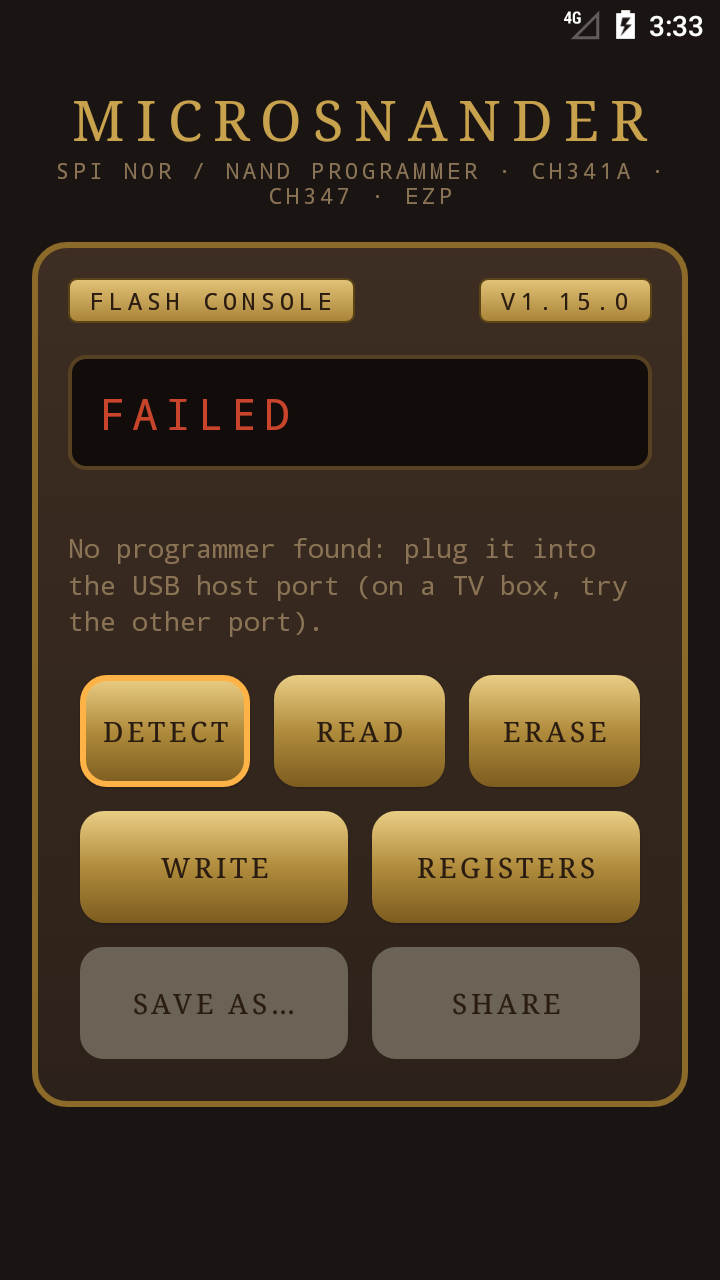
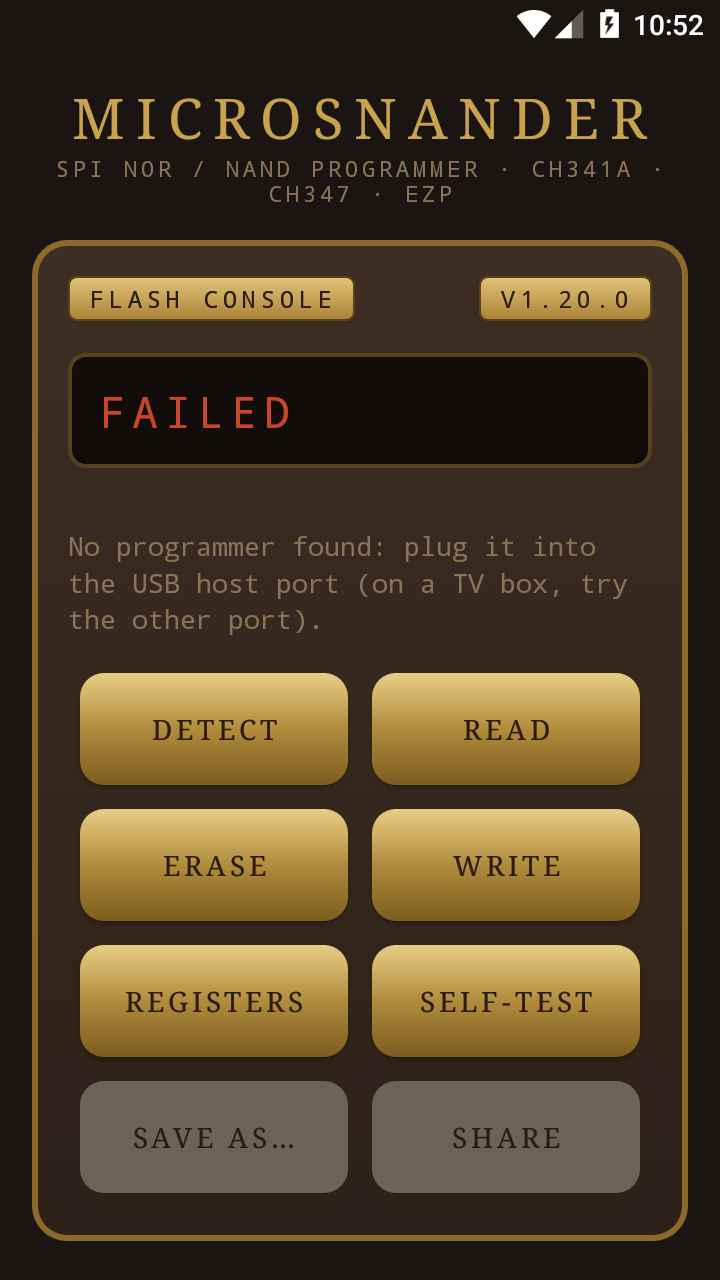
App buttons in rows of two; new screenshots
Three buttons a row broke REGISTERS and SELF-TEST on a phone: the rows
are Detect/Read, Erase/Write, Registers/Self-test, Save as/Share now.
Screenshots: the web mode reading a W25N01G through the CH347 and after
a self-test (new, in the READMEs), the app on a phone.

diff --git a/README.ru.md b/README.ru.md
@@ -234,6 +234,7 @@ microsnander -d -r raw.bin
 <p align="center">
   <img src="screenshots/web-reading.png" alt="MicroSNANDer Web во время чтения: лампы, прибор с прогрессом, дисплей, латунные кнопки" width="45%">
   <img src="screenshots/web-registers.png" alt="MicroSNANDer Web после чтения: ссылка на дамп и лампы битов регистров" width="45%">
+  <img src="screenshots/web-selftest.png" alt="MicroSNANDer Web после самотеста: SELF-TEST OK, защита и итог" width="45%">
 </p>
 
 ```sh

diff --git a/README.zh-CN.md b/README.zh-CN.md
@@ -210,6 +210,7 @@ microsnander -d -r raw.bin
 <p align="center">
   <img src="screenshots/web-reading.png" alt="MicroSNANDer Web 读取中：指示灯、进度表盘、显示屏、黄铜按钮" width="45%">
   <img src="screenshots/web-registers.png" alt="MicroSNANDer Web 读取完成：转储链接和状态寄存器各位的指示灯" width="45%">
+  <img src="screenshots/web-selftest.png" alt="MicroSNANDer Web 自检之后：SELF-TEST OK、保护状态和结果" width="45%">
 </p>
 
 ```sh

diff --git a/README.md b/README.md
@@ -231,6 +231,7 @@ is connected.
 <p align="center">
   <img src="screenshots/web-reading.png" alt="MicroSNANDer Web while reading: lamps, progress gauge, display, brass buttons" width="45%">
   <img src="screenshots/web-registers.png" alt="MicroSNANDer Web after a read: dump link and status register lamps" width="45%">
+  <img src="screenshots/web-selftest.png" alt="MicroSNANDer Web after a self-test: SELF-TEST OK, the protection and the verdict" width="45%">
 </p>
 
 ```sh
